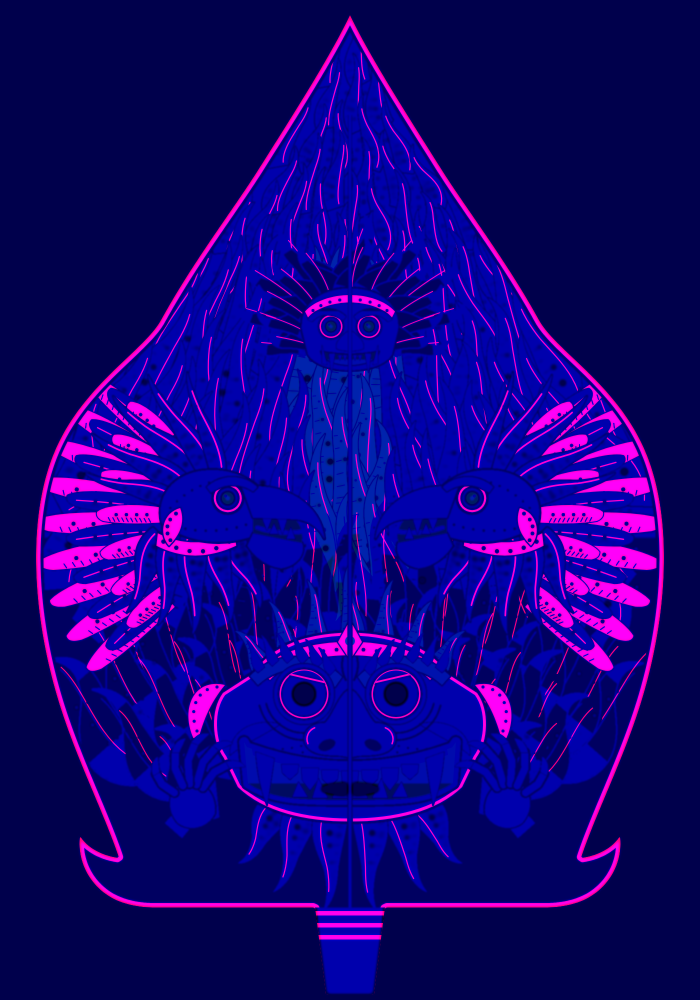
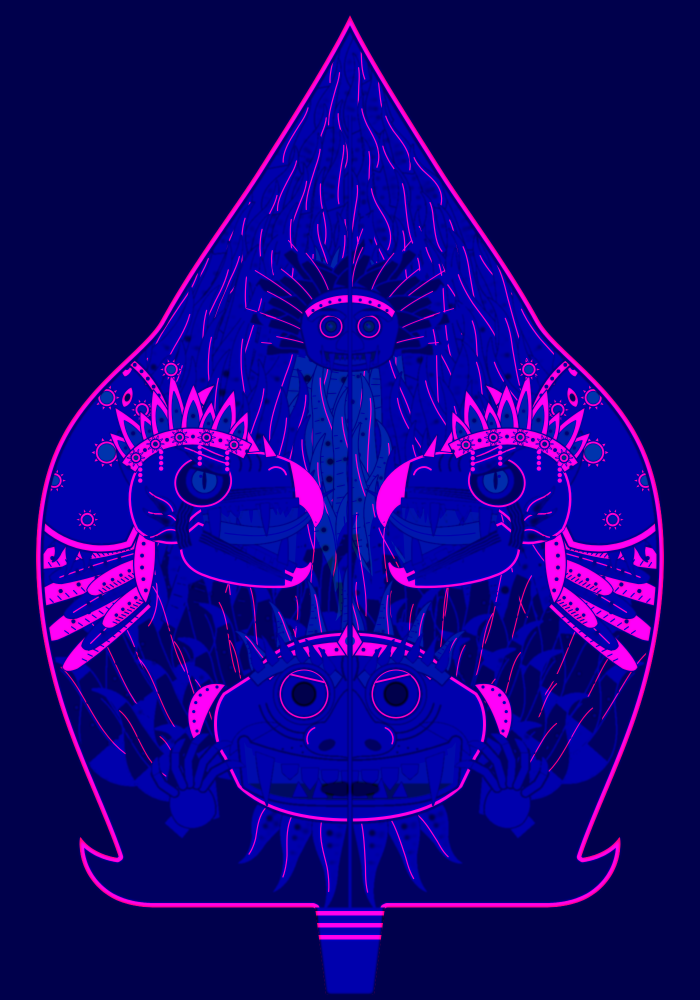
Gunungan (Tugas 7): garuda mengikuti foto topeng garuda Bali dari host, lebih seram; api geni dirapikan
Garuda: kepala hijau gelap, paruh bengkok berujung emas, mulut menganga dengan
gigi tak beraturan dan banyak taring, lidah tajam bercabang, mata merah berurat
berpupil celah, kumis hitam bergaris putih, duri dan tanduk emas, mahkota mewah
(kelopak emas berenamel merah, permata bersetting, gelungan berukir dengan
lingkar lidah api emas).

Api geni: lidah api per kolom tanpa tepi lurus, memudar sebelum batas bidang
lembaran; kadar puncak 0,56, lidah api 0,3. smoothstep berbatas terbalik di
shader (tidak terdefinisi di GLSL) diganti 1 - smoothstep.

Claude-Session: https://claude.ai/code/session_01R1QyGXy3Bge36s7vTax3jp

Changed region(s): [[0.54, 0.341, 0.96, 0.682], [0.06, 0.341, 0.48, 0.682]]

diff --git a/scripts/assets/gunungan-paint.js b/scripts/assets/gunungan-paint.js
@@ -816,7 +816,7 @@ if (!AGUNG) {
     g.strokeStyle = s(INK, false, true); g.lineWidth = 2; for (let t = 0.16; t < 0.82; t += 0.07) { g.beginPath(); g.moveTo(L * t, w * 0.5); g.lineTo(L * t + 4, w * 0.26); g.stroke(); }
     g.restore();
   };
-  const GAR = [292, 1030];   // kepala garuda kanan: jarak dari sumbu, tinggi (kiri dicerminkan). Menghadap ke dalam seperti di foto.
+  const GAR = [340, 1010];   // kepala garuda kanan: jarak dari sumbu, tinggi (kiri dicerminkan). Menghadap ke dalam seperti di foto.
   layer((g, s) => {
     g.clip(SIL);
     for (const sd of [-1, 1]) {
@@ -830,37 +830,143 @@ if (!AGUNG) {
     }
   });
 
-  // 5. sepasang garuda berjambul menghadap ke luar: paruh bengkok menganga bertaring, mata thelengan, sumping dan kalung prada
+  // 5. sepasang garuda mengikuti foto topeng garuda Bali dari host ("ikuti garuda seperti foto yang saya kirim"),
+  //    menghadap ke dalam: kepala hijau, moncong panjang berujung paruh emas yang mengait, mulut menganga sangat lebar
+  //    berongga merah, deret gigi putih bulat dan taring panjang, lidah merah jambu menjulur, mata bulat melotot
+  //    bercincin jingga-merah, pita hitam bergaris putih di sepanjang rahang, telinga runcing bersumping emas, tanduk
+  //    emas di dahi, dan gelungan emas berukir tembus berlatar merah dengan permata di belakang kepala. Menghadap +x.
+  const GREEN = ['#0c3018', '#1c5a30', '#348a4c', '#62b474', '#a8dcae'];
   const garuda = (g, s) => {
     const F = (p, col, metal, lw = 5, glow) => fs(g, s, p, col, metal, lw, glow);
-    // jambul: helai api merah jambu menyapu ke belakang-atas
-    for (const [x, y, tx, ty, w] of [[-10, -52, -130, -170, 24], [-30, -40, -160, -116, 22], [6, -60, -80, -200, 20], [-44, -20, -170, -60, 18], [20, -62, -24, -204, 16]]) lidah(g, s, x, y, tx, ty, w, PINK, { wave: 0.6 });
-    // leher bersisik turun ke bahu
-    // kerah bulu: helai merah jambu dan emas mengipas ke bawah dari bawah kepala, lalu kalung prada
-    for (const [x, ang, L, cols] of [[-60, 2.0, 120, PINK_D], [40, 1.2, 110, PINK_D], [-36, 1.8, 130, PINK], [16, 1.4, 124, PINK], [-12, 1.6, 140, CORE]]) lidah(g, s, x, 30, x + Math.cos(ang) * L, 30 + Math.sin(ang) * L, 26, cols, { wave: 0.6 });
-    const necklace = P(); necklace.moveTo(-66, 26); necklace.quadraticCurveTo(-14, 52, 44, 26); necklace.lineTo(46, 44); necklace.quadraticCurveTo(-14, 72, -68, 44); necklace.closePath(); F(necklace, { lin: [0, 26, 0, 70], stops: band(GOLDS) }, true, 4);
-    holesOn(g, s, bezPts([-58, 38], [-28, 56], [6, 58], [36, 38], 10), 2, 3);
-    // kepala
-    const head = P(); head.moveTo(-60, 12); head.bezierCurveTo(-70, -30, -40, -62, 6, -64); head.bezierCurveTo(48, -66, 78, -46, 92, -22); head.lineTo(70, 30); head.bezierCurveTo(30, 44, -20, 42, -60, 12); head.closePath();
-    F(head, { lin: [-60, -60, 90, 30], stops: band(SKIN_K) }, false, 6);
-    cawi(g, s, bezPts([-60, 12], [-70, -30], [-40, -62], [6, -64], 20), 4, 14, 2);
-    drenjem(g, s, bezPts([-40, 16], [-10, 26], [30, 24], [60, 14], 14), 2, 2.2);
-    drenjem(g, s, bezPts([-48, -10], [-30, -30], [-6, -44], [20, -50], 12), 2, 2);
-    // paruh atas: bengkok ke bawah, merah tua; paruh bawah terbuka; rongga dan lidah; taring
-    const beak = P(); beak.moveTo(54, -40); beak.bezierCurveTo(118, -48, 168, -14, 172, 34); beak.bezierCurveTo(164, 18, 150, 8, 132, 6); beak.lineTo(70, 4); beak.closePath();
-    F(beak, { lin: [54, -48, 172, 34], stops: band(['#4a0608', '#8a1218', '#c8302a', '#ee6a4a']) }, false, 5);
-    const jaw = P(); jaw.moveTo(70, 26); jaw.lineTo(140, 40); jaw.bezierCurveTo(146, 58, 130, 74, 110, 76); jaw.bezierCurveTo(90, 74, 72, 60, 62, 44); jaw.closePath();
-    F(jaw, { lin: [62, 26, 146, 76], stops: band(['#4a0608', '#8a1218', '#c8302a']) }, false, 5);
-    const mouth = P(); mouth.moveTo(70, 6); mouth.lineTo(132, 8); mouth.bezierCurveTo(140, 16, 142, 30, 140, 40); mouth.lineTo(70, 26); mouth.closePath(); g.fillStyle = s('#1a0202', false, false, '#160201'); g.fill(mouth);
-    g.strokeStyle = s('#c8302a', false); g.lineWidth = 6; g.lineCap = 'round'; g.beginPath(); g.moveTo(76, 18); g.quadraticCurveTo(110, 30, 150, 22); g.stroke();
-    for (const [x, y0, h] of [[90, 6, 16], [112, 7, 20], [100, 27, -14], [124, 34, -16]]) { const t = P(); t.moveTo(x - 6, y0); t.lineTo(x + 6, y0); t.lineTo(x, y0 + h); t.closePath(); F(t, IVORY, false, 2.5); }
-    // mata, alis, sumping
-    thelengan(g, s, 34, -24, 17, false);
-    const brow = P(); brow.moveTo(4, -40); brow.bezierCurveTo(24, -58, 54, -60, 76, -40); brow.lineTo(70, -34); brow.bezierCurveTo(52, -46, 28, -46, 10, -32); brow.closePath(); F(brow, { lin: [0, -60, 0, -32], stops: band(['#4a0608', '#a8201c', '#e85a3a']) }, false, 4);
-    const sump = P(); sump.moveTo(-34, -10); sump.bezierCurveTo(-58, -4, -66, 26, -50, 44); sump.bezierCurveTo(-36, 30, -26, 12, -34, -10); sump.closePath(); F(sump, { lin: [-60, -10, -30, 44], stops: band(GOLDS) }, true, 4);
-    holesOn(g, s, bezPts([-40, -2], [-54, 8], [-56, 24], [-48, 36], 8), 2, 2.6);
+    // gelungan: kipas berlatar merah di belakang kepala, diukir kelopak emas bertingkat yang tembus di tengahnya
+    const FAN = [[[-10, -90], [-20, -220], [-120, -292], [-210, -250]], [[-210, -250], [-286, -206], [-290, -80], [-250, 0]], [[-250, 0], [-222, 56], [-150, 86], [-84, 64]]];
+    const fan = P(); fan.moveTo(-10, -90); fan.bezierCurveTo(-20, -220, -120, -292, -210, -250); fan.bezierCurveTo(-286, -206, -290, -80, -250, 0); fan.bezierCurveTo(-222, 56, -150, 86, -84, 64); fan.closePath();
+    // lingkar lidah api emas memancar dari tepi gelungan
+    FAN.forEach((seg, j) => { for (let k = 1; k < 9; k++) { const [x, y] = bez(...seg, k / 9), dx = x + 120, dy = y + 86, l = Math.hypot(dx, dy); if (j === 2 && k > 6) continue; lidah(g, s, x - dx / l * 8, y - dy / l * 8, x + dx / l * (40 + (k % 2) * 16), y + dy / l * (40 + (k % 2) * 16), 13, GOLDS, { wave: 0.6, lw: 3, plain: true }); } });
+    F(fan, { lin: [-260, -280, -40, 60], stops: band(['#4a0806', '#8a160c', '#b82818']) }, false, 6);
+    const gem = (x, y, r, c) => {
+      for (let k = 0; k < 10; k++) { const a = k / 10 * Math.PI * 2, q = P(); q.moveTo(x + Math.cos(a - 0.2) * r, y + Math.sin(a - 0.2) * r); q.lineTo(x + Math.cos(a) * (r + 7), y + Math.sin(a) * (r + 7)); q.lineTo(x + Math.cos(a + 0.2) * r, y + Math.sin(a + 0.2) * r); q.closePath(); F(q, GOLD, true, 2); }
+      const d = (rr, col, metal, glow) => { g.fillStyle = s(col, metal, false, glow); g.beginPath(); g.arc(x, y, rr, 0, Math.PI * 2); g.fill(); };
+      d(r + 2, INK, false); d(r, GOLD_L, true); d(r - 3, INK, false); d(r - 4, { rad: [x - r * 0.3, y - r * 0.3, 1, x, y, r - 4], stops: [[0, '#ffffff'], [0.25, c], [1, '#1a0404']] }, false, c === '#d8201a' ? '#6a0802' : '#03200c');
+    };
+    const petal = (x, y, ang, L, w) => {
+      g.save(); g.translate(x, y); g.rotate(ang);
+      const q = P(); q.moveTo(0, 0); q.bezierCurveTo(L * 0.2, -w, L * 0.75, -w * 0.8, L, 0); q.bezierCurveTo(L * 0.75, w * 0.8, L * 0.2, w, 0, 0); q.closePath();
+      F(q, { lin: [0, 0, L, 0], stops: band(GOLDS.slice(1)) }, true, 3);
+      g.fillStyle = s(INK, false, true); g.beginPath(); g.ellipse(L * 0.48, 0, L * 0.2, w * 0.38, 0, 0, Math.PI * 2); g.fill();
+      g.restore();
+    };
+    g.save(); g.clip(fan);
+    const FC = [-120, -86];
+    for (const [r, n, L, w, a0, a1] of [[176, 17, 46, 15, -2.75, 1.05], [128, 14, 40, 13, -2.8, 1.0], [80, 10, 34, 11, -2.9, 0.9]]) for (let k = 0; k < n; k++) { const a = a0 + (a1 - a0) * k / (n - 1); petal(FC[0] + Math.cos(a) * r, FC[1] + Math.sin(a) * r, a, L, w); }
+    g.restore();
+    g.lineJoin = 'round'; g.strokeStyle = s(INK, false); g.lineWidth = 16; g.stroke(fan); g.strokeStyle = s(GOLD, true); g.lineWidth = 10; g.stroke(fan);
+    g.fillStyle = s(INK, false, true); for (let k = 0; k < 20; k++) { const [x, y] = bez([-10, -90], [-20, -220], [-120, -292], [-210, -250], k / 19); g.beginPath(); g.arc(x, y, 3, 0, Math.PI * 2); g.fill(); }
+    for (const [x, y, c, r] of [[-120, -176, '#d8201a', 14], [-196, -120, '#22a050', 12], [-206, -40, '#d8201a', 12], [-152, 24, '#22a050', 11], [-62, -156, '#22a050', 11], [-120, -86, '#d8201a', 18]]) gem(x, y, r, c);
+    // telinga runcing hijau dan sumping emas yang menggantung
+    const ear = P(); ear.moveTo(-60, -10); ear.bezierCurveTo(-96, -40, -110, -90, -100, -120); ear.bezierCurveTo(-80, -90, -50, -60, -34, -30); ear.closePath(); F(ear, { lin: [-100, -120, -40, -10], stops: band(GREEN) }, false, 5);
+    const sump = P(); sump.moveTo(-58, 30); sump.bezierCurveTo(-82, 70, -80, 130, -56, 160); sump.bezierCurveTo(-40, 120, -38, 70, -44, 34); sump.closePath(); F(sump, { lin: [-80, 30, -40, 160], stops: band(GOLDS) }, true, 4);
+    holesOn(g, s, bezPts([-54, 44], [-66, 76], [-64, 110], [-56, 140], 10), 2, 3);
+    // garis-garis mulut: bibir atas naik ke pangkal paruh, bibir bawah jatuh ke ujung rahang
+    const UP = [[36, 8], [90, 0], [150, -2], [194, -4]], LO = [[40, 34], [96, 58], [150, 86], [188, 104]];
+    const GSKIN = { rad: [40, -70, 10, 40, -20, 230], stops: [[0, '#7ec888'], [0.3, '#348a4c'], [0.65, '#14502a'], [1, '#04180a']] };
+    // rahang bawah, ujungnya emas mengait ke atas
+    const jaw = P(); jaw.moveTo(30, 30); jaw.bezierCurveTo(...LO[1], ...LO[2], ...LO[3]); jaw.bezierCurveTo(200, 108, 210, 104, 214, 96); jaw.bezierCurveTo(212, 118, 196, 132, 170, 134); jaw.bezierCurveTo(120, 136, 70, 128, 36, 114); jaw.bezierCurveTo(8, 102, -4, 80, 4, 52); jaw.closePath();
+    F(jaw, { rad: [80, 60, 10, 80, 60, 170], stops: [[0, '#4caa62'], [0.6, '#22703a'], [1, '#0c3418']] }, false, 6);
+    g.save(); g.clip(jaw); g.fillStyle = s({ lin: [170, 0, 214, 0], stops: band(GOLDS.slice(1)) }, true); g.fillRect(172, 60, 60, 90); g.restore();
+    g.lineWidth = 4; g.strokeStyle = s(GOLD, true); g.stroke(jaw);
+    // rongga mulut merah dengan kerongkongan gelap
+    const mouth = P(); mouth.moveTo(...UP[0]); mouth.bezierCurveTo(...UP[1], ...UP[2], ...UP[3]); mouth.lineTo(...LO[3]); mouth.bezierCurveTo(...LO[2], ...LO[1], ...LO[0]); mouth.closePath();
+    g.fillStyle = s({ lin: [30, 0, 196, 0], stops: [[0, '#1a0201'], [0.3, '#7a1208'], [0.7, '#c8381a'], [1, '#e8642a']] }, false, false, '#200402'); g.fill(mouth);
+    // lidah merah jambu: berbaring di rahang bawah, ujungnya menjulur keluar dan menggulung ke atas
+    // gusi merah di kedua bibir; deret gigi runcing rapat; taring panjang atas (belakang) dan bawah (depan)
+    const gum = (c, side) => { const pts = bezPts(...c, 30); F(ribbon(pts, () => 7), '#c8302a', false, 3); return pts; };
+    // gigi tidak beraturan: lebar, panjang, dan kemiringan tiap gigi berbeda, ada celah, ujungnya tajam
+    const teeth = (pts, dir, from, to, n, lenF) => {
+      const nm = normals(pts), N = pts.length - 1, cuts = [0]; for (let k = 1; k < n; k++) cuts.push(k / n + (rnd() - 0.5) * 0.6 / n); cuts.push(1);
+      for (let k = 0; k < n; k++) {
+        if (rnd() < 0.12) continue;
+        const gap = rnd() < 0.3 ? 0.18 : 0.04, c0 = cuts[k] + gap / n, c1 = cuts[k + 1] - gap / n;
+        const i0 = Math.round((from + (to - from) * c0) * N), i1 = Math.round((from + (to - from) * c1) * N), im = (i0 + i1) >> 1;
+        const [x0, y0] = pts[i0], [x1, y1] = pts[i1], [nx0, ny0] = nm[im], sk = (rnd() - 0.5) * 0.7, nx = nx0 * Math.cos(sk) - ny0 * Math.sin(sk), ny = nx0 * Math.sin(sk) + ny0 * Math.cos(sk);
+        const L = lenF(k) * (0.6 + rnd() * 0.9), d = dir * Math.sign(ny0 || 1);
+        const tx = (x0 + x1) / 2 + nx * L * d, ty = (y0 + y1) / 2 + ny * L * d, t = P();
+        t.moveTo(x0, y0); t.quadraticCurveTo(x0 + nx * L * 0.55 * d, y0 + ny * L * 0.55 * d, tx, ty); t.quadraticCurveTo(x1 + nx * L * 0.55 * d, y1 + ny * L * 0.55 * d, x1, y1); t.closePath();
+        F(t, { lin: [(x0 + x1) / 2, (y0 + y1) / 2, tx, ty], stops: [[0, '#fffaf0'], [0.7, '#efe4cc'], [1, '#c9b48e']] }, false, 2);
+      }
+    };
+    const fang = (x0, y0, x1, y1, tx, ty) => { const f = P(); f.moveTo(x0, y0); f.quadraticCurveTo((x0 + tx) / 2 - 4, (y0 + ty) / 2, tx, ty); f.quadraticCurveTo((x1 + tx) / 2 + 4, (y1 + ty) / 2, x1, y1); f.closePath(); F(f, { lin: [x0, y0, tx, ty], stops: [[0, '#fffaf0'], [0.7, '#efe4cc'], [1, '#c9b48e']] }, false, 3); };
+    const lo = gum(LO);
+    teeth(lo, 1, 0.16, 0.9, 8, () => 22);
+    fang(160, 92, 176, 98, 174, 40); fang(96, 62, 108, 66, 94, 22);
+    // lidah tajam: panjang, meruncing, menjulur keluar dan mencambuk ke atas, ujungnya bercabang dua runcing
+    { const pts = bezPts([60, 44], [124, 54], [196, 62], [232, -14], 30), tw = (t) => 16 * (1 - t) ** 0.7 + 1.5;
+      F(ribbon(pts, tw), { lin: [56, 40, 244, 40], stops: [[0, '#5a0814'], [0.5, '#c8304a'], [1, '#f07a90']] }, false, 3.5, '#2a0408');
+      const [ex, ey] = pts[30], [px, py] = pts[26], ul = Math.hypot(ex - px, ey - py), ux = (ex - px) / ul, uy = (ey - py) / ul;
+      for (const sgn of [-1, 1]) { const ax = ux * Math.cos(sgn * 0.5) - uy * Math.sin(sgn * 0.5), ay = ux * Math.sin(sgn * 0.5) + uy * Math.cos(sgn * 0.5), f = P(); f.moveTo(ex - uy * 3, ey + ux * 3); f.lineTo(ex + ax * 24, ey + ay * 24); f.lineTo(ex + uy * 3, ey - ux * 3); f.closePath(); F(f, '#f07a90', false, 2.5); }
+      g.strokeStyle = s('#4a0610', false); g.lineWidth = 2; g.beginPath(); pts.slice(2, 26).forEach(([x, y], i) => (i ? g.lineTo(x, y) : g.moveTo(x, y))); g.stroke(); }
+    // kepala dan moncong atas: dahi, punuk paruh, lalu paruh melengkung dan mengait tajam ke bawah
+    const head = P(); head.moveTo(-70, 40); head.bezierCurveTo(-96, -10, -80, -74, -30, -96); head.bezierCurveTo(10, -112, 60, -104, 96, -84);
+    head.bezierCurveTo(146, -92, 202, -72, 226, -30); head.bezierCurveTo(238, -6, 236, 18, 222, 34); head.bezierCurveTo(216, 14, 206, 0, 194, -4);
+    head.bezierCurveTo(...UP[2], ...UP[1], ...UP[0]); head.bezierCurveTo(10, 24, 0, 44, 6, 60); head.bezierCurveTo(-20, 66, -50, 60, -70, 40); head.closePath();
+    F(head, GSKIN, false, 6);
+    // ujung paruh emas besar
+    g.save(); g.clip(head); g.fillStyle = s({ lin: [180, -80, 236, 34], stops: band(GOLDS.slice(1)) }, true); g.beginPath(); g.moveTo(176, -90); g.bezierCurveTo(186, -40, 190, -10, 186, 10); g.lineTo(250, 40); g.lineTo(250, -100); g.closePath(); g.fill();
+    g.strokeStyle = s(INK, false); g.lineWidth = 4; g.beginPath(); g.moveTo(176, -78); g.bezierCurveTo(186, -40, 190, -10, 186, 10); g.stroke(); g.restore();
+    g.lineWidth = 4; g.strokeStyle = s(GOLD, true); g.stroke(head);
+    g.fillStyle = s('#0a1a0e', false); g.beginPath(); g.ellipse(160, -50, 12, 5, 0.45, 0, Math.PI * 2); g.fill();
+    // duri emas di punggung paruh dan dahi, condong ke belakang
+    for (let k = 0; k < 7; k++) { const t = 0.08 + k * 0.12, [x, y] = bez([-30, -96], [40, -116], [120, -96], [196, -66], t), L = 24 + 14 * Math.sin(t * Math.PI), q = P(); q.moveTo(x - 9, y + 4); q.lineTo(x - 14, y - L); q.lineTo(x + 8, y + 2); q.closePath(); F(q, { lin: [x, y, x - 14, y - L], stops: band(GOLDS.slice(1)) }, true, 3); }
+    // kerut di moncong
+    g.strokeStyle = s(INK, false); g.lineWidth = 3.5; g.lineCap = 'round'; for (const x of [100, 116, 132]) { g.beginPath(); g.moveTo(x - 6, -82); g.quadraticCurveTo(x + 4, -70, x - 2, -56); g.stroke(); }
+    g.strokeStyle = s(GOLD, true); g.lineWidth = 3; g.beginPath(); g.moveTo(146, -58); g.bezierCurveTo(156, -66, 170, -62, 174, -50); g.stroke();
+    const up = gum(UP);
+    teeth(up, 1, 0.16, 0.94, 9, () => 24);
+    fang(46, 8, 66, 5, 60, 76); fang(132, -2, 146, -3, 142, 50);
+    // pita hitam bergaris putih halus di sepanjang rahang (kumis): di atas bibir atas dan di bawah bibir bawah
+    for (const c of [[[30, -10], [96, -20], [150, -24], [188, -26]], [[34, 50], [90, 76], [146, 106], [184, 122]]]) {
+      const pts = bezPts(...c, 24), nm = normals(pts), wq = (t) => 10 * (1 - 0.6 * t);
+      g.fillStyle = s('#0c0c10', false); g.fill(ribbon(pts, wq));
+      g.strokeStyle = s('#f2f0e8', false); g.lineWidth = 1.4;
+      for (const k of [-0.45, 0.1, 0.6]) { g.beginPath(); pts.forEach((q, i) => { const w = wq(i / 24), x = q[0] + nm[i][0] * w * k + Math.sin(i * 1.3) * 1.5, y = q[1] + nm[i][1] * w * k; i ? g.lineTo(x, y) : g.moveTo(x, y); }); g.stroke(); }
+    }
+    // ukiran emas di pipi: lidah-lidah prada berlubang di belakang sudut mulut
+    for (const [x, y, tx, ty] of [[-10, 30, -60, 6], [-6, 48, -58, 52], [-16, 14, -56, -30]]) lidah(g, s, x, y, tx, ty, 14, GOLDS, { wave: 0.7, lw: 3 });
+    // pipi: pita hitam bergaris dari mata ke sudut rahang
+    { const pts = bezPts([24, -18], [6, 6], [-4, 34], [10, 70], 18), nm = normals(pts); g.fillStyle = s('#0c0c10', false); g.fill(ribbon(pts, () => 11)); g.strokeStyle = s('#f2f0e8', false); g.lineWidth = 1.4; for (const k of [-0.5, 0, 0.5]) { g.beginPath(); pts.forEach((q, i) => { const x = q[0] + nm[i][0] * 11 * k + Math.sin(i * 1.4) * 1.5, y = q[1] + nm[i][1] * 11 * k; i ? g.lineTo(x, y) : g.moveTo(x, y); }); g.stroke(); } }
+    // tanduk emas kecil di dahi
+    const horn = P(); horn.moveTo(-14, -96); horn.bezierCurveTo(-10, -150, 20, -186, 56, -196); horn.bezierCurveTo(34, -164, 26, -126, 26, -94); horn.closePath(); F(horn, { lin: [-14, -196, 40, -94], stops: band(GOLDS) }, true, 4);
+    g.strokeStyle = s(INK, false); g.lineWidth = 2.5; for (let k = 1; k < 5; k++) { const a = bez([-14, -96], [-10, -150], [20, -186], [56, -196], k / 6), b2 = bez([26, -94], [26, -126], [34, -164], [56, -196], k / 6); g.beginPath(); g.moveTo(...a); g.lineTo(...b2); g.stroke(); }
+    // rongga mata hitam bertepi prada, mata bulat melotot bercincin jingga-merah
+    { const ex = 40, ey = -40;
+      const sock = P(); sock.ellipse(ex - 2, ey + 2, 46, 40, -0.2, 0, Math.PI * 2); F(sock, '#0c0c10', false, 4); g.lineWidth = 3; g.strokeStyle = s(GOLD, true); g.stroke(sock);
+      const disc = (r, col, metal, glow) => { g.fillStyle = s(col, metal, false, glow); g.beginPath(); g.arc(ex, ey, r, 0, Math.PI * 2); g.fill(); };
+      disc(33, INK, false); disc(30, { rad: [ex - 6, ey - 8, 4, ex, ey, 30], stops: [[0, '#ffffff'], [0.8, '#f2ece0'], [1, '#c8bca8']] }, false);
+      g.strokeStyle = s('#b0140c', false); g.lineCap = 'round'; for (let k = 0; k < 12; k++) { const a = k / 12 * Math.PI * 2 + 0.3; g.lineWidth = k % 3 ? 1.6 : 2.6; g.beginPath(); g.moveTo(ex + Math.cos(a) * 29, ey + Math.sin(a) * 29); g.quadraticCurveTo(ex + Math.cos(a + 0.25) * 25, ey + Math.sin(a + 0.25) * 25, ex + Math.cos(a - 0.1) * 21, ey + Math.sin(a - 0.1) * 21); g.stroke(); }
+      disc(22, INK, false); disc(20, { rad: [ex, ey, 2, ex, ey, 20], stops: [[0, '#ffd23a'], [0.45, '#f05a14'], [1, '#8a0a04']] }, false, '#5a0802');
+      g.fillStyle = s('#080202', false); g.beginPath(); g.ellipse(ex, ey, 3.5, 15, 0, 0, Math.PI * 2); g.fill();
+      g.fillStyle = s('#ffffff', false); g.beginPath(); g.arc(ex - 6, ey - 7, 2.5, 0, Math.PI * 2); g.fill();
+      // kelopak atas miring ke paruh: tatapan garang
+      g.save(); g.beginPath(); g.arc(ex, ey, 31, 0, Math.PI * 2); g.clip(); g.fillStyle = s('#0c3418', false); g.beginPath(); g.moveTo(ex - 40, ey - 26); g.lineTo(ex + 40, ey - 6); g.lineTo(ex + 40, ey - 40); g.lineTo(ex - 40, ey - 40); g.closePath(); g.fill();
+      g.strokeStyle = s(INK, false); g.lineWidth = 5; g.beginPath(); g.moveTo(ex - 40, ey - 26); g.lineTo(ex + 40, ey - 6); g.stroke(); g.restore(); }
+    // alis: lidah api hijau bertepi prada menyapu ke belakang dari atas mata
+    for (const [x, y, tx, ty, w, cols] of [[56, -80, -40, -168, 14, EMBER], [74, -70, -46, -130, 24, GREEN], [80, -62, -10, -96, 16, GREEN]]) lidah(g, s, x, y, tx, ty, w, cols, { wave: -0.6, rim: INK, lw: 4 });
+    // jamang mewah: kelopak emas tinggi berlapis enamel merah (tinggi-rendah bergantian), puncak berpermata,
+    // pita emas bertatah dengan deret permata, dan untaian manik yang menggantung
+    const crownLine = bezPts([-84, -62], [-50, -118], [40, -128], [110, -88], 20), cn = normals(crownLine);
+    crownLine.forEach(([x, y], k) => { if (k % 2 || k === 0 || k === 20) return; const [nx, ny] = cn[k], up = ny < 0 ? 1 : -1, L = (k % 4 ? 58 : 84) + (k === 10 ? 50 : 0), w = k % 4 ? 15 : 19, ang = Math.atan2(ny * up, nx * up);
+      g.save(); g.translate(x, y); g.rotate(ang);
+      const q = P(); q.moveTo(0, -w); q.bezierCurveTo(L * 0.4, -w * 1.1, L * 0.8, -w * 0.4, L, 0); q.bezierCurveTo(L * 0.8, w * 0.4, L * 0.4, w * 1.1, 0, w); q.closePath(); F(q, { lin: [0, 0, L, 0], stops: band(GOLDS.slice(1)) }, true, 3.5);
+      const e = P(); e.moveTo(L * 0.12, -w * 0.5); e.bezierCurveTo(L * 0.4, -w * 0.6, L * 0.6, -w * 0.25, L * 0.7, 0); e.bezierCurveTo(L * 0.6, w * 0.25, L * 0.4, w * 0.6, L * 0.12, w * 0.5); e.closePath(); F(e, { lin: [0, 0, L * 0.7, 0], stops: band(['#5a0606', '#a8140e', '#e0301e']) }, false, 2, '#3a0402');
+      g.fillStyle = s(INK, false, true); g.beginPath(); g.arc(L * 0.4, 0, Math.max(2.5, w * 0.18), 0, Math.PI * 2); g.fill();
+      g.restore(); });
+    F(ribbon(crownLine, () => 13), { lin: [0, -128, 0, -60], stops: band(GOLDS) }, true, 4);
+    holesOn(g, s, crownLine.filter((_, k) => k % 2 === 0), 1, 3);
+    crownLine.forEach(([x, y], k) => { if (k % 4 === 2) gem(x, y, 7, k % 8 === 2 ? '#d8201a' : '#22a050'); });
+    { const [x, y] = crownLine[10], [nx, ny] = cn[10], up = ny < 0 ? 1 : -1; gem(x + nx * up * 112, y + ny * up * 112, 11, '#d8201a'); }
+    for (const k of [3, 7, 13, 17]) { const [x, y] = crownLine[k]; g.fillStyle = s(GOLD, true); for (let j = 1; j <= 4; j++) { g.beginPath(); g.arc(x, y + 8 + j * 9, 3.6, 0, Math.PI * 2); g.fill(); } }
   };
-  layer((g, s) => { g.clip(SIL); for (const sd of [-1, 1]) { g.save(); g.translate(CX + sd * GAR[0], GAR[1]); g.scale(-sd * 1.4, 1.4); garuda(g, s); g.restore(); } });
+  layer((g, s) => { g.clip(SIL); for (const sd of [-1, 1]) { g.save(); g.translate(CX + sd * GAR[0], GAR[1]); g.scale(-sd * 1.22, 1.22); garuda(g, s); g.restore(); } });
 
   // 6. kala kecil di tengah atas: rambut gimbal hitam bertepi prada, wajah merah jambu, mata thelengan, taring
   layer((g, s) => {

diff --git a/src/components/film/stage3d/gunungan.ts b/src/components/film/stage3d/gunungan.ts
@@ -105,7 +105,7 @@ void main() {
     vec3 horn = mix(vec3(0.05, 0.03, 0.02), vec3(0.75, 0.52, 0.2), band);
     vec3 rod = horn * (0.25 + 1.6 * round * round) + vec3(1.0, 0.8, 0.5) * pow(round, 12.0) * 0.5;
     rod += vec3(1.0, 0.5, 0.2) * uLight.x * 0.12 * (1.0 - round);
-    float edge = smoothstep(1.0, 0.8, abs(across)) * uLight.w;
+    float edge = (1.0 - smoothstep(0.8, 1.0, abs(across))) * uLight.w;
     gl_FragColor = vec4(rod * edge, edge);
     return;
   }
@@ -202,15 +202,17 @@ ${KAYON.spare.map(([u, v, ru, rv]) => `  spare *= smoothstep(0.75, 1.05, length(
     float fy = uLight.z * ${f(GENI.reach)} + (vnoise(vec2(uv.x * 7.0, uTime * 0.6)) - 0.5) * 0.12;
     float above = uv.y - fy;
     float H = ${f(GENI.flame)} * (0.55 + 0.45 * uLight.z / ${f(GENI.peak)});
-    float fuel = smoothstep(0.15, 0.55, texture2D(tMurka, vec2(st.x, 1.0 - clamp(fy, 0.0, 1.0)), 4.0).a);
-    // lidah api: gradien tegak yang dirobek noise bergerak naik; merah tua di kaki, jingga, lalu kuning di inti
+    float fuel = smoothstep(0.4, 0.85, texture2D(tMurka, vec2(st.x, 1.0 - clamp(fy, 0.0, 1.0)), 4.0).a);
+    // lidah api per kolom: noise memanjang tegak menentukan tinggi tiap lidah (pendek sampai menjulang), panas
+    // terbesar di kaki; memudar sebelum tepi bidang lembaran supaya tidak terpotong lurus
     // (warna di ruang linear: keluaran panggung dikodekan sRGB, jadi kuning linear yang terlalu tinggi memucat jadi krem)
-    float n = vnoise(vec2(uv.x * 19.0, uv.y * 4.0 - uTime * 2.6)) * 0.55 + vnoise(vec2(uv.x * 41.0 + 5.0, uv.y * 9.0 - uTime * 4.6)) * 0.45;
-    float d = max(above, 0.0) / H + (0.55 - n) * 2.4;
-    float heat = (1.0 - smoothstep(0.2, 1.0, d)) * step(-0.08, above) * fuel * mix(0.15, 1.0, spare);
+    float cn = vnoise(vec2(uv.x * 26.0, uv.y * 2.6 - uTime * 2.2)) * 0.7 + vnoise(vec2(uv.x * 57.0 + 3.0, uv.y * 6.0 - uTime * 4.1)) * 0.3;
+    float reach = max(cn * cn * 1.9, 0.04);
+    float heat = clamp(1.0 - max(above, 0.0) / H / reach, 0.0, 1.0) * smoothstep(-0.1, 0.02, above) * fuel * mix(0.15, 1.0, spare);
+    heat *= smoothstep(0.0, 0.1, uv.x) * (1.0 - smoothstep(0.9, 1.0, uv.x)) * (1.0 - smoothstep(0.84, 1.0, uv.y));
     vec3 fc = mix(vec3(0.25, 0.015, 0.0), vec3(1.0, 0.16, 0.01), smoothstep(0.0, 0.45, heat));
     fc = mix(fc, vec3(1.0, 0.5, 0.08), smoothstep(0.6, 1.0, heat));
-    flameA = smoothstep(0.05, 0.4, heat) * 0.94;
+    flameA = smoothstep(0.04, 0.32, heat) * 0.94;
     flame = fc * flameA * (1.0 + 0.2 * beat);
     vec2 q = vec2(uv.x * 34.0 + sin(uv.y * 9.0 + uTime) * 0.6, uv.y * 24.0 - uTime * 2.4);
     vec2 id = floor(q), fq = fract(q) - 0.5, off = vec2(hash21(id + 7.1), hash21(id + 3.3)) - 0.5;

diff --git a/src/engine/stage/gunungan.ts b/src/engine/stage/gunungan.ts
@@ -30,8 +30,8 @@ export const KAYON = {
   spare: [
     [0.5, 0.27, 0.26, 0.15],
     [0.5, 0.665, 0.12, 0.08],
-    [0.343, 0.485, 0.1, 0.07],
-    [0.657, 0.485, 0.1, 0.07],
+    [0.3, 0.5, 0.13, 0.085],
+    [0.7, 0.5, 0.13, 0.085],
   ],
   /** Tebal kulit sebagai bagian dari tinggi lembaran: lubang tatahan tampak berdinding saat lembaran miring. */
   thick: 0.004,
@@ -70,11 +70,11 @@ export const SWEEP = {
  */
 export const GENI = {
   /** Kadar geni terbesar, di tengah sapuan. */
-  peak: 0.62,
+  peak: 0.56,
   /** Tinggi garis bakar (v dari bawah) = kadar × reach: pada kadar terbesar garis bakar sudah melewati kepala barong. */
   reach: 1.35,
   /** Tinggi lidah api di atas garis bakar (v) pada kadar terbesar: menjilat sampai melewati pucuk. */
-  flame: 0.24,
+  flame: 0.3,
 } as const;
 
 const clamp01 = (x: number) => Math.max(0, Math.min(1, x));
